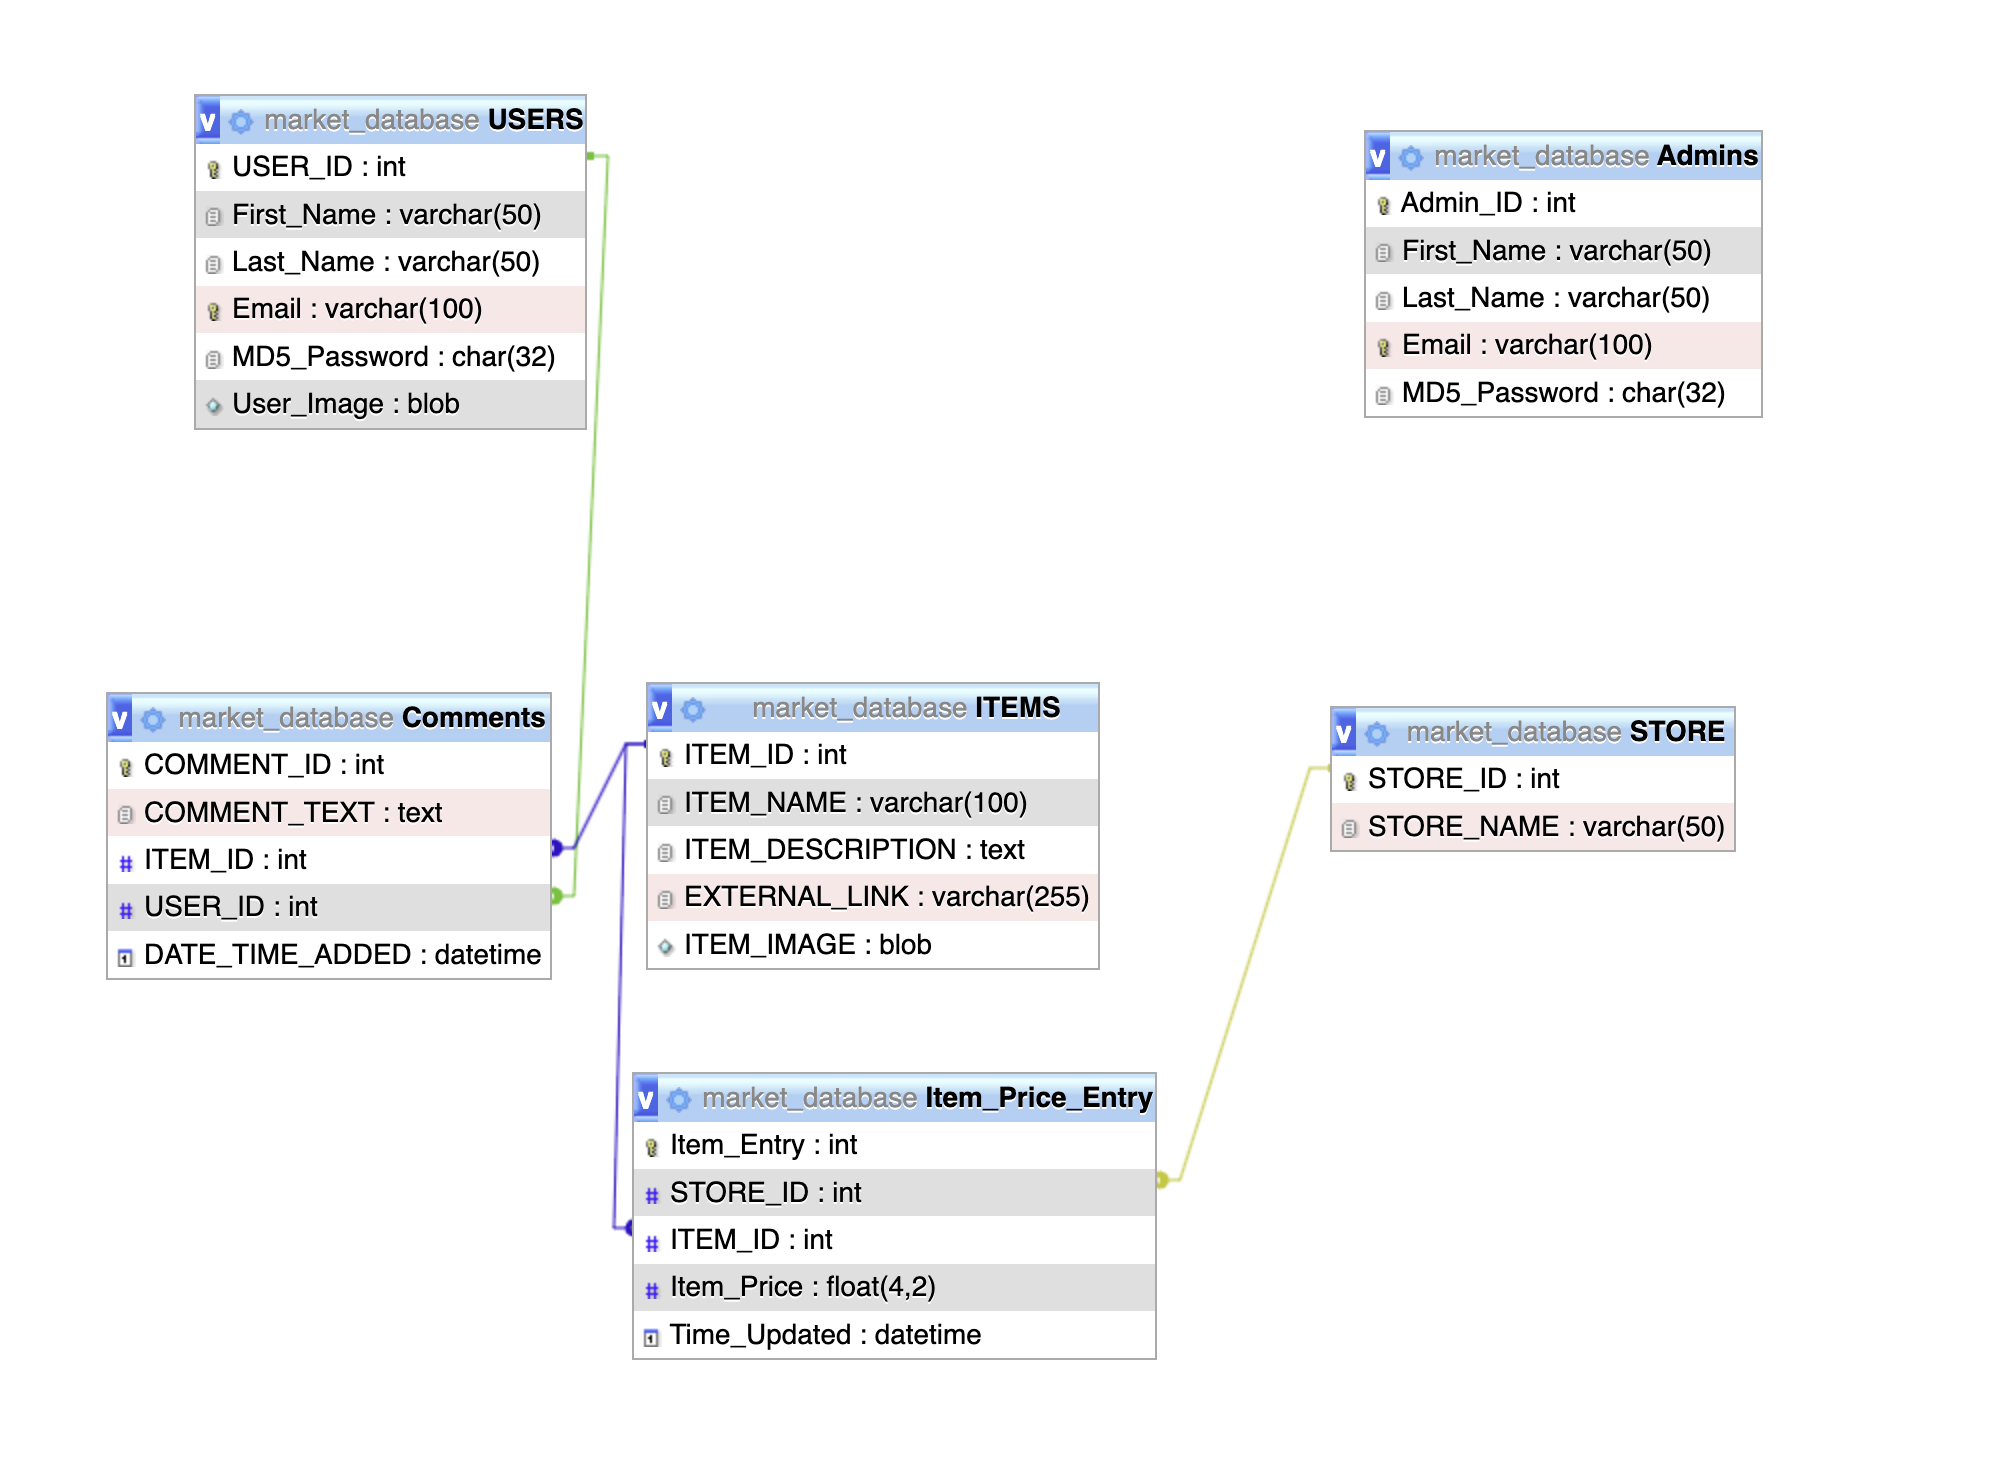
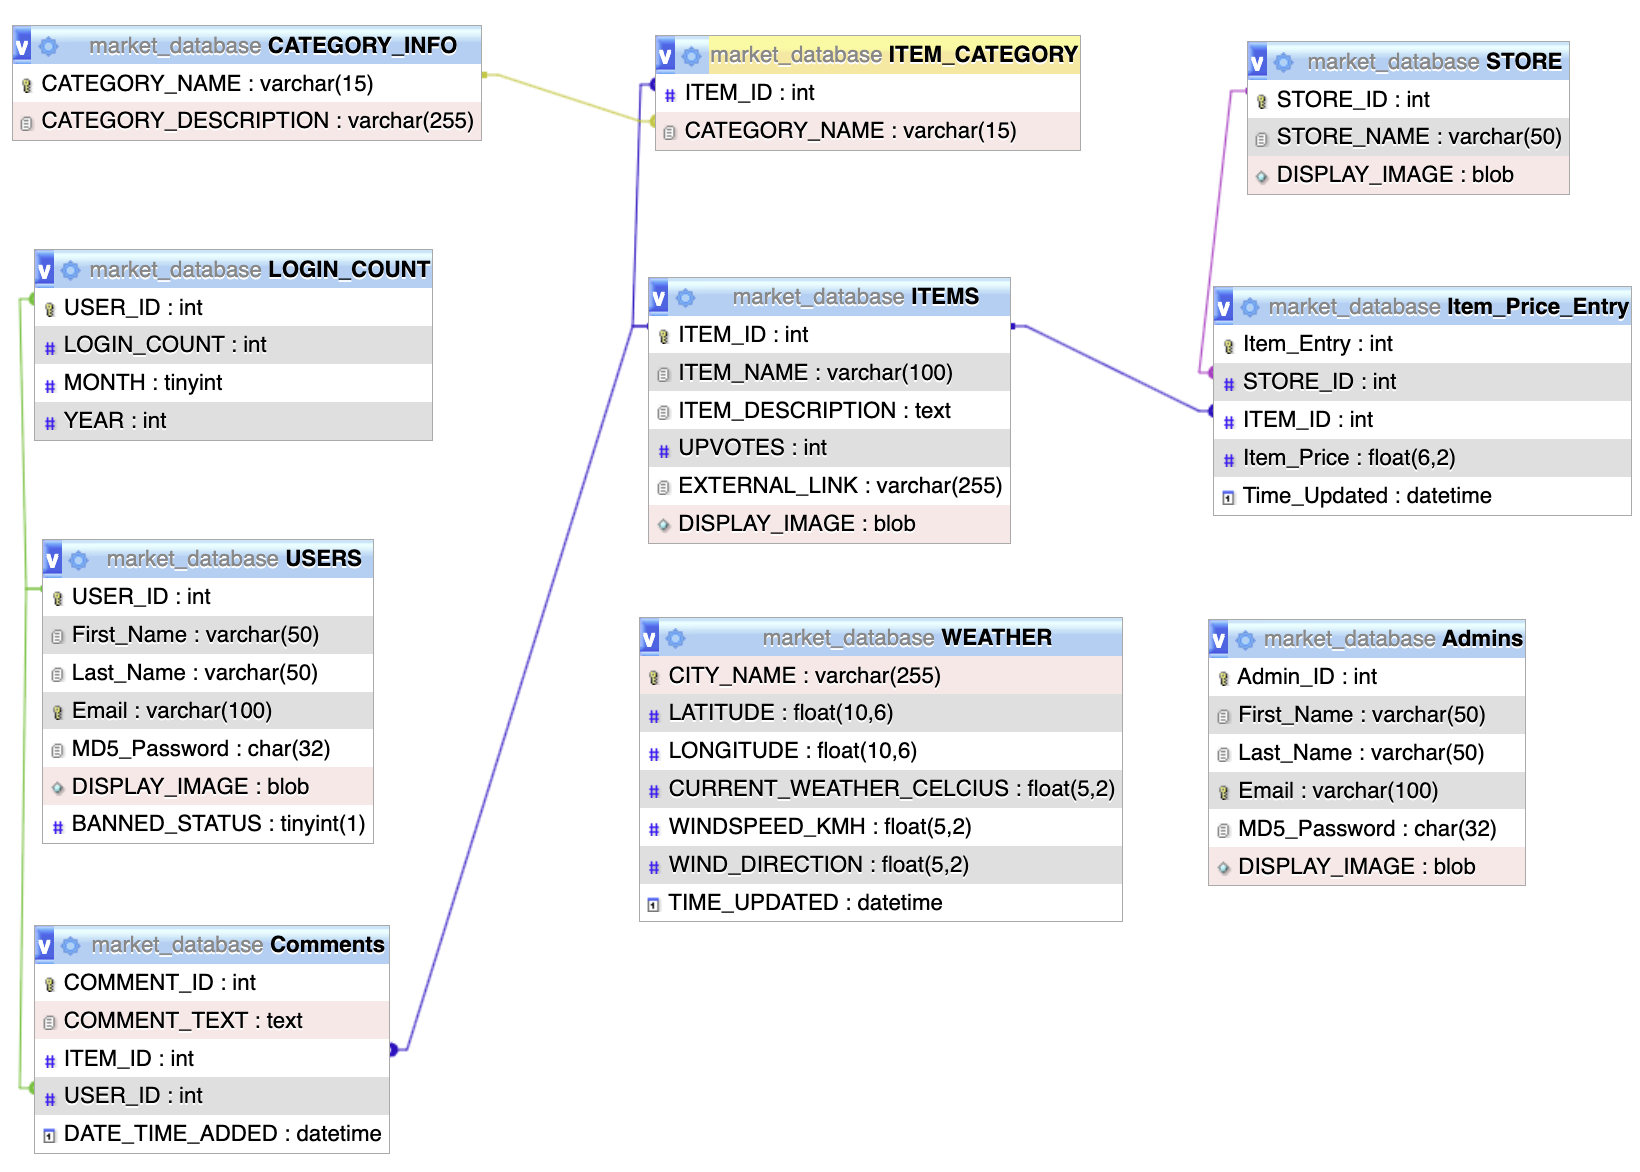
Updated repo design , er diagram , and incorportated feedback from milestone

diff --git a/README.md b/README.md
@@ -1,6 +1,35 @@
-# cosc-360-project
+# Project Overview and Requirements
 
-COSC 360 Project
+The **GroceryPriceTracker** website will allow registered users to engage in online tracking of item prices at different stores by entering and tracking items for given times and locations. Unregistered users will be able to view general price trends in real time. The goal is to produce a service that will allow users to track item prices in real time, set alerts and comment on items.  Functionality must exist for searching/categorizing items.  Additionally, unregistered users must be able to search and view item prices but not see the details of items. Registered users should be able to leave comments/feedback. Functionality must exist for searching/categorizing items.
+
+The website/project mostly utilized PHP, JS , HTML , and CSS to provision the website for users, and provides basic client and admin authentication. It also utilizes mysql database to store user images, as well as images for items. The website also relies on [Free Weather Api](https://open-meteo.com/) to provide latest weather for top 10 canadian cities. 
+
+### Repo Structure
+
+```bash
+.
+├── docs 									# All project documentation
+│ ├── Layout.pdf 							# Scope and Charter
+│ ├── security_documentation.pdf 			# Explains Security Features implemented
+│ ├── tasks_completed.md					# Report of Individuals Tasks Completed
+│ ├── sameple_item_records.txt 				# Sample .txt upload for Bulk Add Item Feature
+│ └── ...
+├── database 								# Database init.sql, ER-Diagram
+├── src (All of our codebase)
+│	├── client/ 							# All Client Side Code
+│ 	│	├── css/ 							# All External Stylesheets
+│ 	│	├── scripts/						# All External JS files
+│ 	│	├── ... 							# Remaining html / php files
+│ 	├── server/								# All Server side code
+│  	│   ├── functions/ 						# All SQL based functions to perform queries
+│   │   │ 	│── db_connection.php			# Database connection file
+│	│	│	└── ...							
+│	│	└── ...								# Remaining PHP code to act as API endpoints
+│ 	└── tests/								# All Unit Tests
+└── README.md
+
+
+```
 
 ## Getting Started with Developement
 
@@ -12,16 +41,6 @@ COSC 360 Project
    - You should be able to see all the tables here, and also execute additional SQL scripts.
 4. Navigate to ``http://localhost:8080/client/login.php`` to access the home page.
 
-## Coding Standard
-
-### Declaring Functions
-
-```javascript
-function functionName(variable1 : int , variable2: string){
-	return something;
-}
-```
-
 ### Important Session Variables used :
 
 These variables are accessed using ``$_SESSION['VARNAME']``
@@ -32,7 +51,7 @@ These variables are accessed using ``$_SESSION['VARNAME']``
 
 ### Running Unit Tests
 
-In the Docker Shell , run ``phpunit tests/*`` , Which will run all the tests in the tests folder.
+In the Docker Shell , run ``phpunit tests/*`` , Which will run all the tests in the tests folder. To run individual test files, navigate to ```.github/workflows/docker_build.yml``` file , and look up the individual commands for each 
 
 ### How to write Unit Tests
 
@@ -44,7 +63,7 @@ In the Docker Shell , run ``phpunit tests/*`` , Which will run all the tests in 
    class Class_Name{
    	static function functionName($param){}
    }
-
+   
    ```
 3. Import the class in a test File , that has the same name for the testClass
 4. Write the tests in the `<u>`same exact notation given below `</u>`, sample test given for file ``User_management_Test.php``
@@ -58,7 +77,7 @@ In the Docker Shell , run ``phpunit tests/*`` , Which will run all the tests in 
    	public function validateUserLogin_ValidLogin(){
    		$this->assertEquals(User_management::validateUserLogin("test@gmail.com", MD5("password")), "VALID_LOGIN");
    	}
-
+   
    	/** @test */
    	public function validateUserLogin_InValidLogin(){
    		$this->assertEquals(User_management::validateUserLogin("test2@gmail.com", MD5("password1")), "INVALID_LOGIN");
